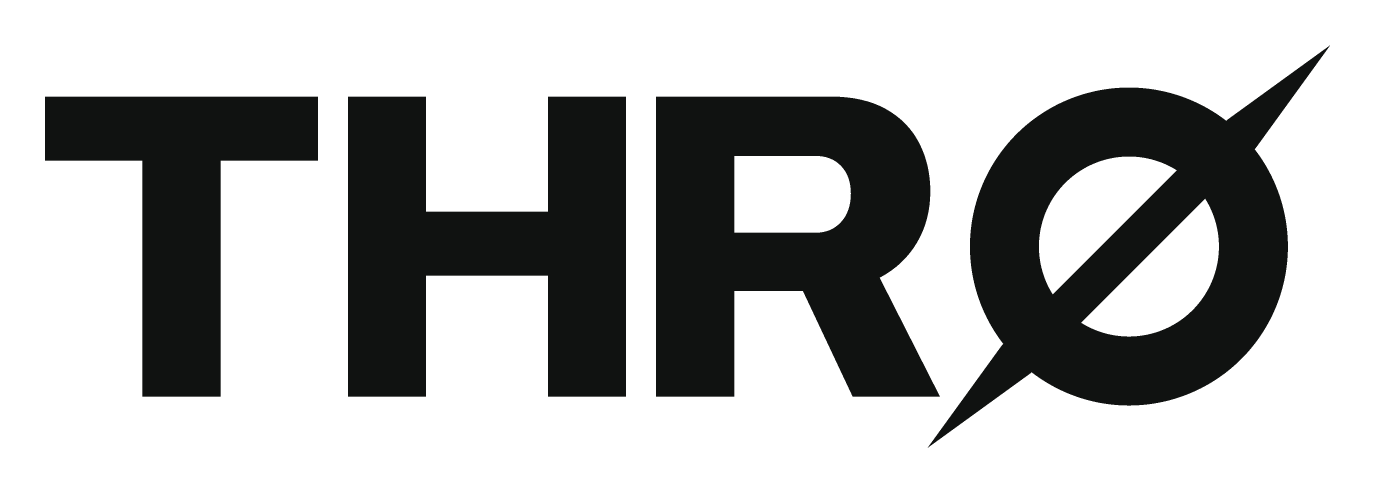
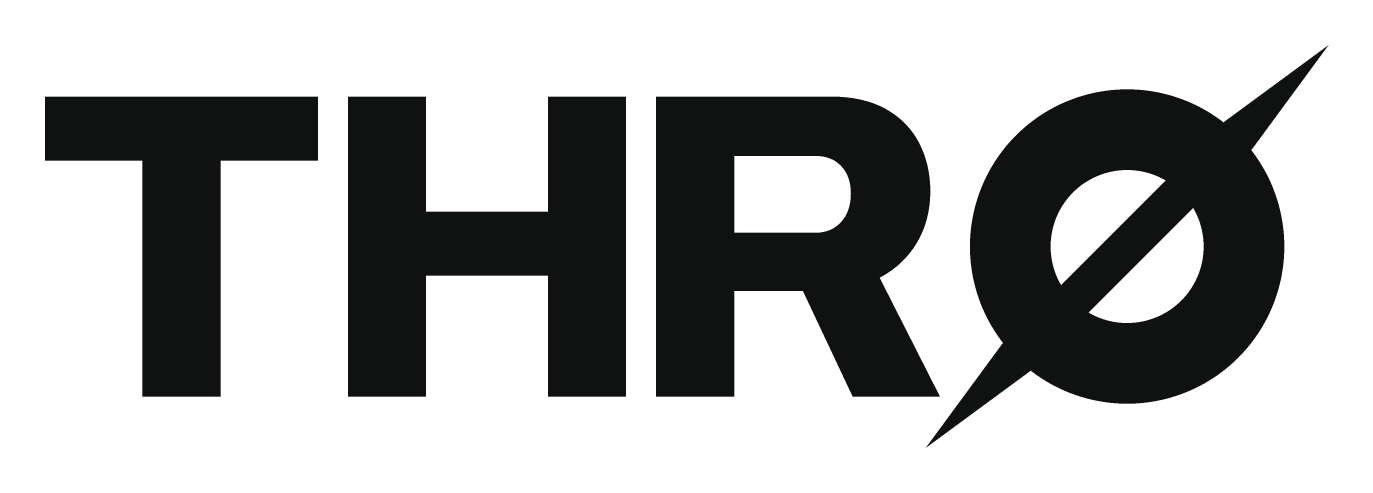
One wordmark, not two (PD-091)
PD-090 left open which of two measurements of the wordmark's Ø was the
logo, and framed it as a candidate against what shipped. The history is
better than that framing: the raster was measured on 6 September, and on
8 September the Swift was deliberately re-measured off Archivo
ExtraBold's own O and H stem so the ring carries the letters' weight.

The raster's letters are lighter than the static face, so its ring is
lighter too, and nothing THRØ ships sets the raster's letters. A ring of
0.23 cap beside a stem of 0.261 reads as a second piece; 0.269 does not.
The glyph-measured numbers are the wordmark.

render_wordmark.py now reads them from the Swift, and the committed
candidate PNG, SVG and splash preview were regenerated from them. Three
descriptions of one logo, one source.

diff --git a/docs/design/brand/render_wordmark.py b/docs/design/brand/render_wordmark.py
@@ -1,10 +1,10 @@
-"""The wordmark as a candidate: THR from Archivo ExtraBold's own outlines, the Ø as the mark with the
-proportions the wordmark gives it (a heavier ring than the standalone mark). NOT shipped until the
-founder confirms the face — see README.md.
+"""The wordmark's reference rendering: THR from Archivo ExtraBold's own outlines, the Ø as the mark with
+the proportions the wordmark gives it (a heavier ring than the standalone mark) — PD-091.
 
-Measured against the founder's 2000 px wordmark, in units of the cap height C: letters set at C with
-0.10 C between inked edges; ring outer radius 0.53 C, inner 0.30 C, centred on the cap midline; dart
-half-width 0.067 C, full width to the ring's outer edge, tapering to points 0.95 C from the centre at 45°.
+In units of the cap height C: letters set at C with 0.10 C between inked edges; ring outer radius 0.524 C,
+inner 0.255 C, centred on the cap midline; dart half-width 0.065 C, full width to the ring's outer edge,
+tapering to points 0.95 C from the centre at 45°. Those numbers are read from `MarkGeometry.Ratios.wordmark`
+below rather than restated, so this rendering cannot drift from the one the app draws.
 
 Usage:
   python3 docs/design/brand/render_wordmark.py <repo root>   # previews + SVG into candidates/
@@ -18,7 +18,20 @@ from ttf_outlines import TTF, quad_segments, contour_to_pdf, rasterise, write_pn
 from render_mark import R_OUT, R_IN, HALF_W, TIP, GREEN, CHALK, INK, hexagon
 
 FACE = "apps/ios/ThroDarts/Fonts/Archivo-ExtraBold.ttf"
-GAP, RING_OUT, RING_IN, BAR, TIPS = 0.10, 0.53, 0.30, 0.067, 0.95
+# The Ø's proportions are READ from the Swift the app draws with, not stated here (PD-091).
+#
+# This file used to carry 0.53 / 0.30 / 0.067, measured off the supplied raster on 6 September. Two days
+# later the app's `MarkGeometry.Ratios.wordmark` was measured off Archivo ExtraBold's own glyphs instead —
+# its O is 0.524 of the cap in outer radius with a 0.269 side stroke, its H stem 0.261 — so that the ring
+# carries the weight of the T, H and R it sits beside: 0.524 / 0.255 / 0.065. Both were honest
+# measurements of different things, and having two of them is how the web came to disagree with the phone.
+# There is one now, and it lives in the Swift.
+sys.path.insert(0, os.path.join(os.path.dirname(os.path.abspath(__file__)), "..", "..", "..", "tools"))
+from make_web_wordmark import wordmark_ratios, gap as _wordmark_gap  # noqa: E402
+
+_RATIOS = wordmark_ratios()
+GAP, RING_OUT, RING_IN, BAR, TIPS = (_wordmark_gap(), _RATIOS["ringOuter"], _RATIOS["ringInner"],
+                                     _RATIOS["halfWidth"], _RATIOS["tip"])
 K = math.sqrt(0.5)
 
 def wordmark_geometry(font, C):
@@ -77,7 +90,7 @@ def wordmark_svg(path, font, C, fg):
     cx, cy, ro, ri = ring
     pts = " ".join(f"{x:.2f},{y:.2f}" for x, y in (tx(*p) for p in dart))
     svg = (f'<svg xmlns="http://www.w3.org/2000/svg" viewBox="0 0 {width:.0f} {top - bottom:.0f}" width="{width:.0f}" height="{top - bottom:.0f}">\n'
-           f'  <!-- THRØ wordmark CANDIDATE: THR from Archivo ExtraBold outlines; Ø from the mark geometry at the wordmark\'s proportions. Not confirmed by the founder. -->\n'
+           f'  <!-- THRØ wordmark, reference rendering: THR from Archivo ExtraBold outlines; Ø from MarkGeometry.Ratios.wordmark (PD-091). -->\n'
            f'  <path d="{" ".join(d)}" fill="{col}" fill-rule="nonzero"/>\n'
            f'  <circle cx="{cx:.2f}" cy="{top - cy:.2f}" r="{(ro + ri)/2:.2f}" fill="none" stroke="{col}" stroke-width="{ro - ri:.2f}"/>\n'
            f'  <polygon points="{pts}" fill="{col}"/>\n</svg>\n')

diff --git a/docs/design/brand/README.md b/docs/design/brand/README.md
@@ -16,21 +16,33 @@ flight at the tail. The export's Splash screen references these as `assets/mark-
 - `ttf_outlines.py` — a small TrueType reader: glyph outlines, flattening, PDF paths, a nonzero
   rasteriser, PNG output. No kerning, no shaping; enough for four letters.
 - `render_wordmark.py` — the wordmark: THR from `Archivo-ExtraBold.ttf`'s own outlines, 0.10 of the cap
-  height between letters, and the Ø from the mark's geometry at the proportions the supplied wordmark
-  gives it (ring outer 0.53 and inner 0.30 of the cap height, dart half-width 0.067, tips 0.95 from the
-  centre). `python3 docs/design/brand/render_wordmark.py <repo root>` writes `candidates/` — the
+  height between letters, and the Ø at the wordmark's own proportions — ring outer 0.524 and inner 0.255
+  of the cap height, dart half-width 0.065, tips 0.95 from the centre — **read from
+  `MarkGeometry.Ratios.wordmark`**, so the reference rendering, the app's opening and `apps/web/wordmark.svg`
+  are one drawing (PD-091). `python3 docs/design/brand/render_wordmark.py <repo root>` writes `candidates/` — the
   wordmark as PNG and SVG and a phone-sized preview of the Splash composition. The app draws the same
   geometry live in its opening (`LaunchSequence.swift`, `WordmarkGeometry`); nothing here ships.
 - `thro-mark-green.svg`, `thro-mark-chalk.svg` — the mark reconstruction, for reference and review.
 - `candidates/` — the wordmark reconstruction and the launch-screen preview, for the founder to check.
 
-## The judgement to confirm
+## The two judgements, and how they were settled (PD-091)
 
-The wordmark's face is read from the supplied image as Archivo ExtraBold — the brand's own UI family at
-its heavy weight. The forms match (square terminals, the R's straight leg, the H's proportions); the
-letters in the supplied image run a few percent narrower than the static face. The founder confirms or
-corrects this on the phone (runbook, next-run checklist item 8). If the face is wrong, the opening's
-letters change face in one place.
+**The face is Archivo ExtraBold** — the brand's own UI family at its heavy weight, read from the supplied
+image: square terminals, the R's straight leg, the H's proportions. The letters in that image run a few
+percent narrower than the static face. It has been on the founder's phone in the opening since 6 September,
+and when the founder compared the web against the app on 13 September the objection was to the **Ø**, not to
+the letters.
+
+**The Ø has the letters' weight, not the raster's.** There were two measurements. The supplied image gave a
+ring of 0.53 / 0.30 of the cap (stroke 0.23); Archivo ExtraBold's own glyphs give an O of 0.524 with a 0.269
+side stroke and an H stem of 0.261. The outer radii agree to within 1%; the strokes do not, and the reason is
+in the paragraph above — the raster's letters are lighter than the static face, so its ring is too. Every
+rendering THRØ actually ships sets THR in the static face at full weight, so a ring measured off the raster
+would be visibly lighter than the stems beside it. **0.524 / 0.255 / 0.065 is the wordmark**, and
+`render_wordmark.py` now reads it from the Swift rather than holding its own.
+
+If the master vectors below arrive, they supersede both measurements and every generator should be pointed
+at them.
 
 ## The opening
 

diff --git a/docs/product/DECISIONS.md b/docs/product/DECISIONS.md
@@ -4175,3 +4175,41 @@ the discrepancy is left standing rather than quietly reconciled — somebody sho
 artwork. And the site had **three different header patterns**, two pages with no brand at all
 (`fixtures.html`, `table.html` — the two most likely to be screenshotted) and one with its title above its
 eyebrow. There is one pattern now.
+
+
+## PD-091 — The wordmark's Ø carries the letters' weight
+
+**13 September 2026, on delegated authority.** The founder's instruction was *"Choose best recommendation &
+proceed"*, on the question PD-090 left open: two measurements of the wordmark's Ø disagreed, and the
+generators were reading different ones.
+
+### The two numbers
+
+| In cap heights | ring outer | ring inner | stroke | dart half-width |
+| --- | --- | --- | --- | --- |
+| The supplied raster, measured 6 September (`render_wordmark.py`) | 0.53 | 0.30 | 0.23 | 0.067 |
+| Archivo ExtraBold's own glyphs, measured 8 September (`MarkGeometry.Ratios.wordmark`) | 0.524 | 0.255 | 0.269 | 0.065 |
+
+The outer radii agree to within 1%. The strokes do not.
+
+### Decided
+
+**The glyph-measured numbers are the wordmark**, and `render_wordmark.py` now reads them from the Swift
+instead of holding its own. Every generator — the reference rendering, `apps/web/wordmark.svg` and the app's
+opening — is one drawing.
+
+The reason is not that those numbers shipped. PD-090 said that, and it was the weaker argument. It is that
+the two measurements were of different things and only one of them is the thing THRØ draws. The supplied
+raster's letters run a few percent lighter and narrower than Archivo ExtraBold's static face, so its ring is
+lighter too. Every rendering THRØ ships sets THR in the static face at full weight. A ring measured off the
+raster would be lighter than the H's stem beside it — 0.23 against 0.261 — and the ring measured off the face
+matches it at 0.269. **A wordmark whose Ø is thinner than its letters reads as two pieces.**
+
+### The face
+
+Archivo ExtraBold, read from the supplied image. It has been in the opening on the founder's phone since
+6 September, and when the founder compared the web against the app on 13 September the objection was to the
+Ø and not to the letters. That is recorded as the evidence it is, not as a formal sign-off.
+
+If master vector files arrive they supersede both measurements, and `render_mark.py`,
+`render_wordmark.py`, `make_web_wordmark.py` and `make_android_icon.py` should all be pointed at them.
